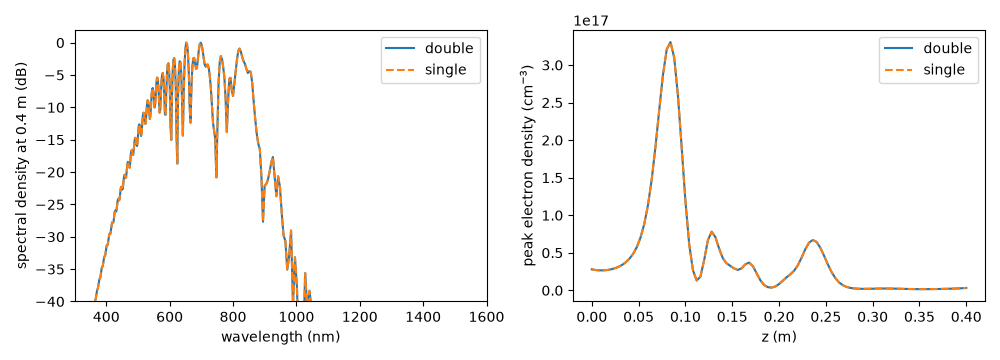
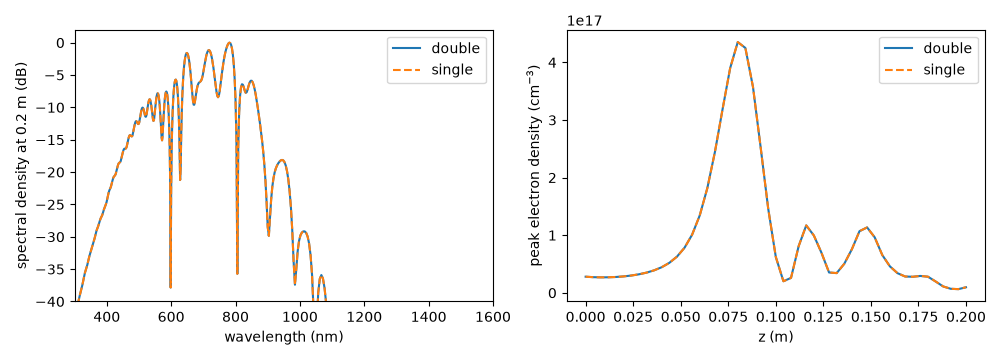
SEP 47: make the single-precision example short on the reference
The reference's envelope-grid plasma made the example run for over an
hour. The capillary now runs the blue shift's first 0.2 m on a field
grid with plasma, in plot_06's 600 fs window; the whole script
regenerates in about three minutes. Fix its import block (I001).

Claude-Session: https://claude.ai/code/session_01XGENPwVEY6NQKGaDDptaj9

diff --git a/docs/auto_examples/performance/plot_01_single_precision.py b/docs/auto_examples/performance/plot_01_single_precision.py
@@ -10,8 +10,9 @@ A run can hold its field and evaluate its nonlinear response in binary32 with
 ``precision="single"``, which halves the memory of every field-sized buffer. Whether a
 problem keeps its accuracy in binary32 is a property of the problem, so this example
 runs two of them both ways and compares: the photoionisation blue shift of
-:doc:`/auto_examples/processes/plot_06_ionisation_blue_shift`, here on an envelope grid
-with the envelope-grid plasma, and a short radial argon filament on a field grid. Each
+:doc:`/auto_examples/processes/plot_06_ionisation_blue_shift`, here over its first
+0.2 m, and a short radial argon filament, both on field grids with the field-grid
+plasma. Each
 runs in binary64 on the default backend, ``native``, and in binary32 on the reference
 backend, ``numpy_ref``, which is named explicitly: it is the backend that runs single
 precision.
@@ -52,28 +53,26 @@ from solprop.pulses import GaussianPulse, SpatialPulse
 from solprop.spatial import SpatialMedium, critical_power
 from solprop.stepper import PIController
 
-
 # Binary64 on the default backend, binary32 on the reference, the backend that runs it.
 BACKENDS = {"double": "auto", "single": "numpy_ref"}
 
 
 def capillary(precision):
-    """Run the blue-shift capillary on an envelope grid; return it and its time."""
+    """Run the blue-shift capillary's first 0.2 m; return it and its time."""
     started = time.perf_counter()
     run = prop_capillary(
         13e-6,
-        0.4,
+        0.2,
         "Ar",
         1.7,
         wavelength=800e-9,
         fwhm=30e-15,
         energy=3e-6,
         loss=False,
-        trange=400e-15,
+        trange=600e-15,
         wavelength_limits=(300e-9, 4e-6),
-        envelope=True,
         plasma=True,
-        n_save=101,
+        n_save=51,
         precision=precision,
         backend=BACKENDS[precision],
         progress="none",
@@ -127,7 +126,7 @@ for precision, style in (("double", "-"), ("single", "--")):
 left.set_xlim(300, 1600)
 left.set_ylim(-40, 2)
 left.set_xlabel("wavelength (nm)")
-left.set_ylabel("spectral density at 0.4 m (dB)")
+left.set_ylabel("spectral density at 0.2 m (dB)")
 left.legend()
 right.set_xlabel("z (m)")
 right.set_ylabel("peak electron density (cm$^{-3}$)")

diff --git a/docs/examples/performance/plot_01_single_precision.py b/docs/examples/performance/plot_01_single_precision.py
@@ -10,8 +10,9 @@ A run can hold its field and evaluate its nonlinear response in binary32 with
 ``precision="single"``, which halves the memory of every field-sized buffer. Whether a
 problem keeps its accuracy in binary32 is a property of the problem, so this example
 runs two of them both ways and compares: the photoionisation blue shift of
-:doc:`/auto_examples/processes/plot_06_ionisation_blue_shift`, here on an envelope grid
-with the envelope-grid plasma, and a short radial argon filament on a field grid. Each
+:doc:`/auto_examples/processes/plot_06_ionisation_blue_shift`, here over its first
+0.2 m, and a short radial argon filament, both on field grids with the field-grid
+plasma. Each
 runs in binary64 on the default backend, ``native``, and in binary32 on the reference
 backend, ``numpy_ref``, which is named explicitly: it is the backend that runs single
 precision.
@@ -52,28 +53,26 @@ from solprop.pulses import GaussianPulse, SpatialPulse
 from solprop.spatial import SpatialMedium, critical_power
 from solprop.stepper import PIController
 
-
 # Binary64 on the default backend, binary32 on the reference, the backend that runs it.
 BACKENDS = {"double": "auto", "single": "numpy_ref"}
 
 
 def capillary(precision):
-    """Run the blue-shift capillary on an envelope grid; return it and its time."""
+    """Run the blue-shift capillary's first 0.2 m; return it and its time."""
     started = time.perf_counter()
     run = prop_capillary(
         13e-6,
-        0.4,
+        0.2,
         "Ar",
         1.7,
         wavelength=800e-9,
         fwhm=30e-15,
         energy=3e-6,
         loss=False,
-        trange=400e-15,
+        trange=600e-15,
         wavelength_limits=(300e-9, 4e-6),
-        envelope=True,
         plasma=True,
-        n_save=101,
+        n_save=51,
         precision=precision,
         backend=BACKENDS[precision],
         progress="none",
@@ -127,7 +126,7 @@ for precision, style in (("double", "-"), ("single", "--")):
 left.set_xlim(300, 1600)
 left.set_ylim(-40, 2)
 left.set_xlabel("wavelength (nm)")
-left.set_ylabel("spectral density at 0.4 m (dB)")
+left.set_ylabel("spectral density at 0.2 m (dB)")
 left.legend()
 right.set_xlabel("z (m)")
 right.set_ylabel("peak electron density (cm$^{-3}$)")

diff --git a/docs/auto_examples/performance/plot_01_single_precision.rst b/docs/auto_examples/performance/plot_01_single_precision.rst
@@ -25,8 +25,9 @@ A run can hold its field and evaluate its nonlinear response in binary32 with
 ``precision="single"``, which halves the memory of every field-sized buffer. Whether a
 problem keeps its accuracy in binary32 is a property of the problem, so this example
 runs two of them both ways and compares: the photoionisation blue shift of
-:doc:`/auto_examples/processes/plot_06_ionisation_blue_shift`, here on an envelope grid
-with the envelope-grid plasma, and a short radial argon filament on a field grid. Each
+:doc:`/auto_examples/processes/plot_06_ionisation_blue_shift`, here over its first
+0.2 m, and a short radial argon filament, both on field grids with the field-grid
+plasma. Each
 runs in binary64 on the default backend, ``native``, and in binary32 on the reference
 backend, ``numpy_ref``, which is named explicitly: it is the backend that runs single
 precision.
@@ -46,12 +47,12 @@ noise-free comb-to-continuum, reaches its accuracy over a shorter length, as the
 :doc:`survival record </guide/performance/single-precision>` states. Timings depend on
 the machine and its load.
 
-.. GENERATED FROM PYTHON SOURCE LINES 36-38
+.. GENERATED FROM PYTHON SOURCE LINES 37-39
 
 The capillary, in both precisions
 ---------------------------------
 
-.. GENERATED FROM PYTHON SOURCE LINES 38-101
+.. GENERATED FROM PYTHON SOURCE LINES 39-100
 
 .. code-block:: Python
 
@@ -72,28 +73,26 @@ The capillary, in both precisions
     from solprop.spatial import SpatialMedium, critical_power
     from solprop.stepper import PIController
 
-
     # Binary64 on the default backend, binary32 on the reference, the backend that runs it.
     BACKENDS = {"double": "auto", "single": "numpy_ref"}
 
 
     def capillary(precision):
-        """Run the blue-shift capillary on an envelope grid; return it and its time."""
+        """Run the blue-shift capillary's first 0.2 m; return it and its time."""
         started = time.perf_counter()
         run = prop_capillary(
             13e-6,
-            0.4,
+            0.2,
             "Ar",
             1.7,
             wavelength=800e-9,
             fwhm=30e-15,
             energy=3e-6,
             loss=False,
-            trange=400e-15,
+            trange=600e-15,
             wavelength_limits=(300e-9, 4e-6),
-            envelope=True,
             plasma=True,
-            n_save=101,
+            n_save=51,
             precision=precision,
             backend=BACKENDS[precision],
             progress="none",
@@ -126,19 +125,19 @@ The capillary, in both precisions
 
  .. code-block:: none
 
-    double: 275.6 s on native
-    single: 4600.4 s on numpy_ref
-    field difference at the end 1.0e-05
+    double: 12.7 s on native
+    single: 99.6 s on numpy_ref
+    field difference at the end 8.9e-06
 
 
 
 
-.. GENERATED FROM PYTHON SOURCE LINES 102-104
+.. GENERATED FROM PYTHON SOURCE LINES 101-103
 
 The spectra and the plasma
 --------------------------
 
-.. GENERATED FROM PYTHON SOURCE LINES 104-137
+.. GENERATED FROM PYTHON SOURCE LINES 103-136
 
 .. code-block:: Python
 
@@ -168,7 +167,7 @@ The spectra and the plasma
     left.set_xlim(300, 1600)
     left.set_ylim(-40, 2)
     left.set_xlabel("wavelength (nm)")
-    left.set_ylabel("spectral density at 0.4 m (dB)")
+    left.set_ylabel("spectral density at 0.2 m (dB)")
     left.legend()
     right.set_xlabel("z (m)")
     right.set_ylabel("peak electron density (cm$^{-3}$)")
@@ -188,13 +187,13 @@ The spectra and the plasma
 
  .. code-block:: none
 
-    double: centroid 670.44 nm, energy 1.15942 uJ, peak electron density 3.3058e+17 cm^-3
-    single: centroid 670.44 nm, energy 1.15942 uJ, peak electron density 3.3058e+17 cm^-3
+    double: centroid 669.01 nm, energy 1.33141 uJ, peak electron density 4.3531e+17 cm^-3
+    single: centroid 669.01 nm, energy 1.33141 uJ, peak electron density 4.3531e+17 cm^-3
 
 
 
 
-.. GENERATED FROM PYTHON SOURCE LINES 138-144
+.. GENERATED FROM PYTHON SOURCE LINES 137-143
 
 A radial filament, in both precisions
 -------------------------------------
@@ -203,7 +202,7 @@ A 30 fs pulse at three times the critical power for self-focusing, 3 cm in argon
 one bar, on 256 radial nodes in 2 mm and a field grid: Kerr self-focusing and the
 field-grid plasma on every node.
 
-.. GENERATED FROM PYTHON SOURCE LINES 144-207
+.. GENERATED FROM PYTHON SOURCE LINES 143-206
 
 .. code-block:: Python
 
@@ -286,7 +285,7 @@ field-grid plasma on every node.
     BoundaryWarning: the safety ramp has removed 1.47e-06 of the launch energy above the input noise's share: content reached the grid's outer wavenumbers; refine the transverse grid (SEP 40 section 5.3)
     double: 1.9 s on native
     BoundaryWarning: the safety ramp has removed 1.47e-06 of the launch energy above the input noise's share: content reached the grid's outer wavenumbers; refine the transverse grid (SEP 40 section 5.3)
-    single: 42.2 s on numpy_ref
+    single: 61.6 s on numpy_ref
     field difference at 3 cm 7.5e-07
     double: peak intensity 1.7445e+14 W/cm^2, final FWHM radius 167.043 um
     single: peak intensity 1.7445e+14 W/cm^2, final FWHM radius 167.043 um
@@ -297,7 +296,7 @@ field-grid plasma on every node.
 
 .. rst-class:: sphx-glr-timing
 
-   **Total running time of the script:** (82 minutes 0.639 seconds)
+   **Total running time of the script:** (2 minutes 56.462 seconds)
 
 
 .. _sphx_glr_download_auto_examples_performance_plot_01_single_precision.py:

diff --git a/docs/auto_examples/index.rst b/docs/auto_examples/index.rst
@@ -478,7 +478,7 @@ compared with binary64.
 
 .. raw:: html
 
-    <div class="sphx-glr-thumbcontainer" tooltip="A run can hold its field and evaluate its nonlinear response in binary32 with precision=&quot;single&quot;, which halves the memory of every field-sized buffer. Whether a problem keeps its accuracy in binary32 is a property of the problem, so this example runs two of them both ways and compares: the photoionisation blue shift of /auto_examples/processes/plot_06_ionisation_blue_shift, here on an envelope grid with the envelope-grid plasma, and a short radial argon filament on a field grid. Each runs in binary64 on the default backend, native, and in binary32 on the reference backend, numpy_ref, which is named explicitly: it is the backend that runs single precision.">
+    <div class="sphx-glr-thumbcontainer" tooltip="A run can hold its field and evaluate its nonlinear response in binary32 with precision=&quot;single&quot;, which halves the memory of every field-sized buffer. Whether a problem keeps its accuracy in binary32 is a property of the problem, so this example runs two of them both ways and compares: the photoionisation blue shift of /auto_examples/processes/plot_06_ionisation_blue_shift, here over its first 0.2 m, and a short radial argon filament, both on field grids with the field-grid plasma. Each runs in binary64 on the default backend, native, and in binary32 on the reference backend, numpy_ref, which is named explicitly: it is the backend that runs single precision.">
 
 .. only:: html
 

diff --git a/docs/auto_examples/performance/index.rst b/docs/auto_examples/performance/index.rst
@@ -22,7 +22,7 @@ compared with binary64.
 
 .. raw:: html
 
-    <div class="sphx-glr-thumbcontainer" tooltip="A run can hold its field and evaluate its nonlinear response in binary32 with precision=&quot;single&quot;, which halves the memory of every field-sized buffer. Whether a problem keeps its accuracy in binary32 is a property of the problem, so this example runs two of them both ways and compares: the photoionisation blue shift of /auto_examples/processes/plot_06_ionisation_blue_shift, here on an envelope grid with the envelope-grid plasma, and a short radial argon filament on a field grid. Each runs in binary64 on the default backend, native, and in binary32 on the reference backend, numpy_ref, which is named explicitly: it is the backend that runs single precision.">
+    <div class="sphx-glr-thumbcontainer" tooltip="A run can hold its field and evaluate its nonlinear response in binary32 with precision=&quot;single&quot;, which halves the memory of every field-sized buffer. Whether a problem keeps its accuracy in binary32 is a property of the problem, so this example runs two of them both ways and compares: the photoionisation blue shift of /auto_examples/processes/plot_06_ionisation_blue_shift, here over its first 0.2 m, and a short radial argon filament, both on field grids with the field-grid plasma. Each runs in binary64 on the default backend, native, and in binary32 on the reference backend, numpy_ref, which is named explicitly: it is the backend that runs single precision.">
 
 .. only:: html
 

diff --git a/docs/guide/performance/single-precision.md b/docs/guide/performance/single-precision.md
@@ -219,7 +219,7 @@ binary32 Adams is closer to the binary64 reference than binary32 Runge–Kutta i
   much as a double-precision one; no backend runs it faster.
 
 The [worked example](../../auto_examples/performance/plot_01_single_precision.rst) runs a
-capillary with the envelope-grid plasma and a radial filament in both precisions and
+capillary and a radial filament, each with the field-grid plasma, in both precisions and
 compares them. The precision setting, its binary32 contract and the survival study were
 proposed and carried out by
 [SEP 33](../../dev/seps/archive/sep-0033-single-precision-mlx.md).
